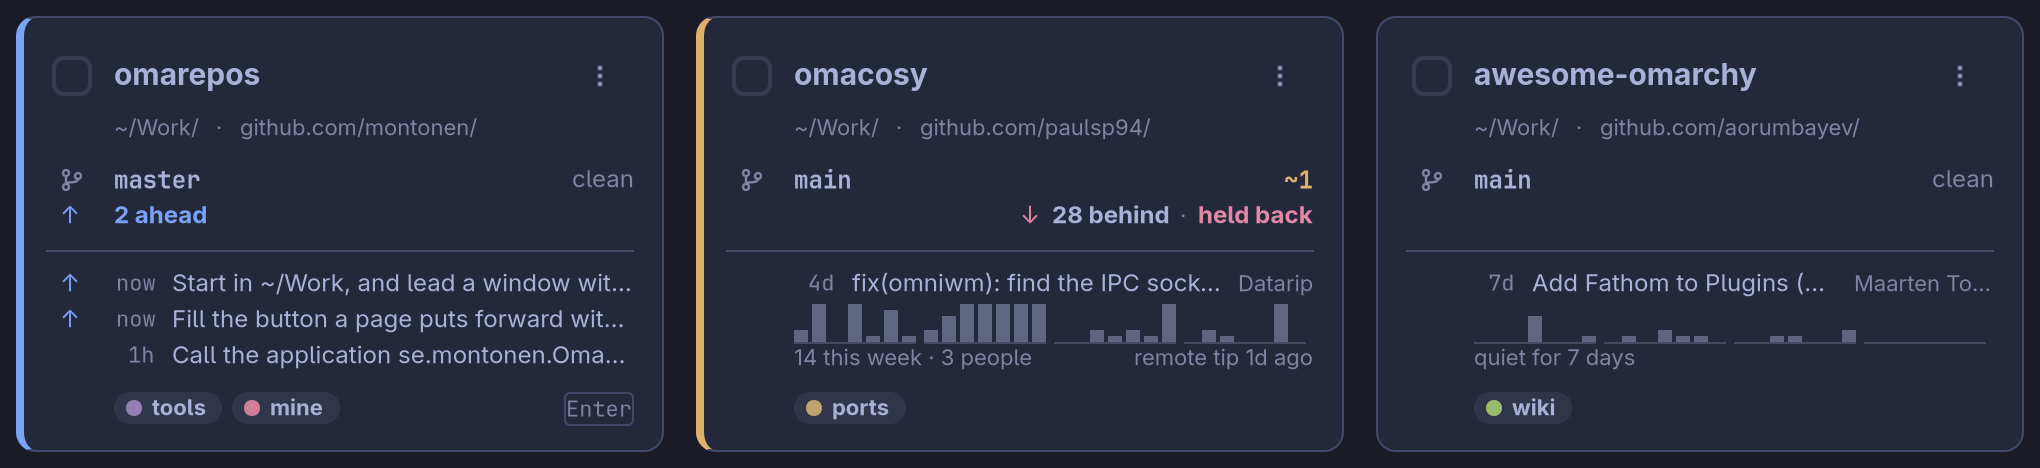
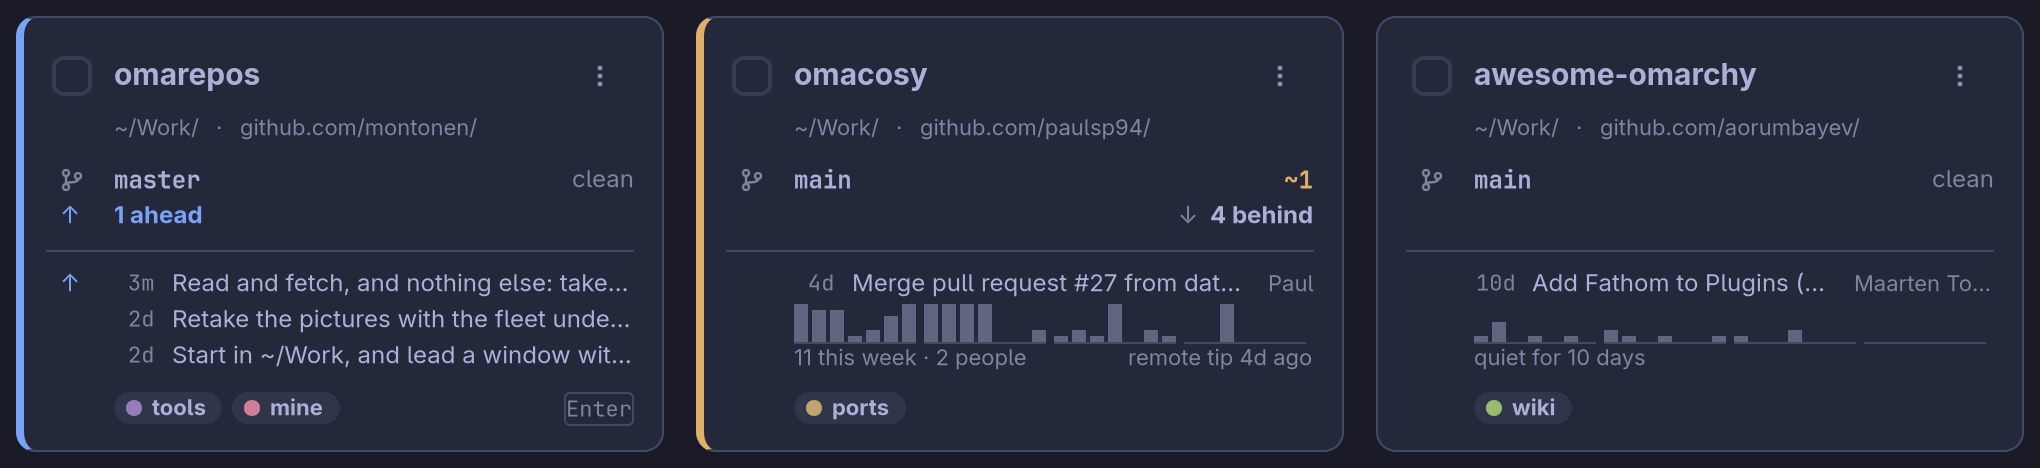
Retake the pictures of a program that only fetches
The pictures in the README still showed the commit box, the Push
button and a card "held back", none of which is there any more. They
are taken again from b2a0720: the commit graph and the uncommitted view
without anything to press, and three close-up cards that between them
show a commit that is only here, uncommitted work with commits waiting
on the remote, and a repository with nothing to do.

The copies the pictures are taken of were wound back by days, and the
one meant to be both edited and behind had had a quiet week: wound back
two days it was level with its remote, and the card showed no "behind".
They are wound back by commits now, which gives the same picture
whatever the projects have been doing.

Checked by looking at each of the eight pictures. The alt text of the
cards picture says what is in it.

diff --git a/docs/development.md b/docs/development.md
@@ -120,7 +120,7 @@ OMAREPOS_SHOTS_DIR=/some/scratch/dir scripts/shots/shoot.sh
 repositories that had the most stars on GitHub under a search for "omarchy"
 when the pictures were last taken. Those are cloned without signing in, and
 git is given a configuration that reaches no credential helper. So that there
-is something to show, three of the copies are then wound back a day or two,
+is something to show, three of the copies are then wound back a few commits,
 with what has happened since still to pull; three are given uncommitted edits;
 one is put on a branch of its own and one on a release. That is done to the
 copies, never to anything else, and only under a directory the script made

diff --git a/README.md b/README.md
@@ -37,7 +37,7 @@ scratch home directory of their own. [How the pictures are taken](docs/developme
 
 ### A card says one thing in each place
 
-![Three cards: one with commits that are only here, one held back by uncommitted work, one quiet](docs/img/cards.png)
+![Three cards: one with a commit that is only here, one with uncommitted work and commits waiting on the remote, one quiet](docs/img/cards.png)
 
 Every fact has a place of its own, the same on every card, so where a thing is
 says what it is.
